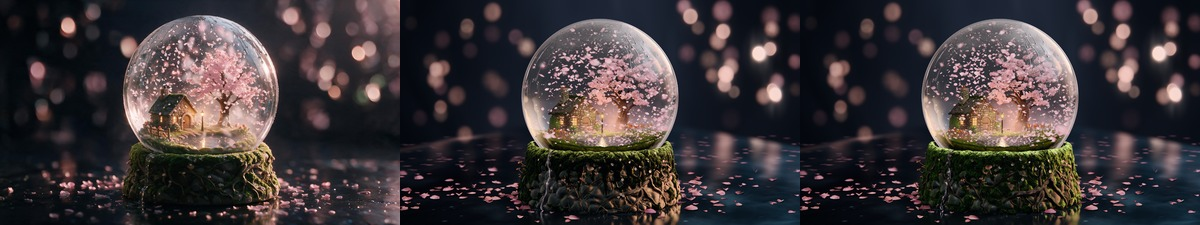
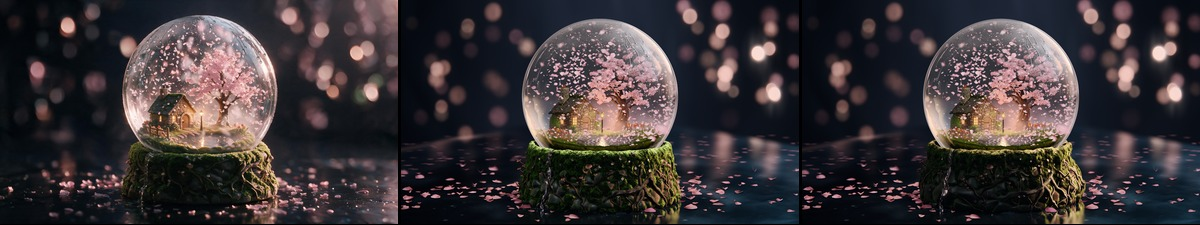
Looks: the third list beside the approved picture and the second list, four frames at 3840 of moss and trickle, the handover

diff --git a/HANDOVER.md b/HANDOVER.md
@@ -1,30 +1,31 @@
-# Handover: spring's base (phase 6, second list)
+# Handover: spring's base (phase 6, third list)
 
 Branch `agent/p6-spring-base`. Files: `src/seasons/spring/base.ts`, `assets-src/base-spring/build.mjs`, `layout.mjs`, `RECIPE.md`. Assets to make again: `npm run make -- base-spring`, then `npm run texpack -- --group spring` (texpack also rewrites `public/assets/spring/village-spring.glb`, which is not this job's; restore it with `git checkout`).
 
 ## What stands
-- Cobbles: cells of about 9.4 by 6.6 mm in `voronoi`, domed by distance to the seed, blurred 0.75 mm. Dark and damp in the shader (`baseStone`, `ROCK.fill` 0.7, `ROCK.lustre` 0.15 for the soft sheen on their upper faces).
-- Moss on the whole flank: three sources in `build.mjs`, the greater of them wins. `patch` (noise at 26 by 4 a turn plus the joints), `seam` (the joints alone, at 0.55), and `shelf` (whole cobbles capped where `lies` is over 0.63). The lip's band is `drape` with the tongues of `DRIPS`. The cover map is mostly moss with stones showing through; lower the three thresholds for more stone.
-- Moss shade: the fill (`ROCK.mossFill` 4.2) has a floor of 0.3 and follows the moss sheet's height, so the shaded moss stays green instead of black. The low sun on the right is tinted green on moss so it does not read as warm.
-- Flecks: the moss's share of the low sun is `(0.8 + 1.8 * liveTuft) * 1.6` (was `0.3 + 7.0 * liveTuft`) and the lit tip is `1.7 + 2.1 * liveTuft + 1.5 * liveFuzz` (was `1.0 + 14.0 * liveTuft`). The dew's lines are the mender's and untouched.
-- Roots: only the twigs of `ROOTS`, thicker (stout ones by 1.3), long curves with little fine wiggle, four wanderers in front; dark grey brown wood with moss on their backs (`baseRootMoss`).
-- Trickle: `TRICKLE_WIDTH` 3.4 to 5.6 mm. The channel under it is dark wet stone and the moss grows ragged into it; the ribbon itself is nearly clear with thin bright edges (`rimline`, added after the edge fade) and streaks.
+- Light on the moss: the low sun's share on moss is tinted `vec3(1.2, 1.5, 0.55)` over the sun's own warm colour, not over the moss's green, and the lit tip (`liveTip`) is a warm olive that grows toward the east (`liveEast`). The lit band at the lip is `liveLip`, the top 1.4 mm only.
+- Shade: `liveReach` in the rock and the factor on the roots' graze take the low sun off every face whose side of the mound looks away from it, so the left and middle flank get the fill alone. The moss's fill falls with height (`mix(0.45, 1.3, smoothstep(27, 40, y))`).
+- Cobbles: cells of about 13 by 9 mm, warped, domed; bare below a ragged line at the left and middle (`bare` in `build.mjs`), moss in the joints (`seam`), on the top and on the lit right.
+- Roots: one thick root taken out, eight thin pale ones on the right (the last eight of `ROOTS`), wood pale tan under the sun with dark gaps.
+- Trickle: a clear film (alpha 0.06 to 0.24), no bright edge lines, fine glints that grow toward the foot.
+- Outline: `swell` in `build.mjs` moves the three meshes outward unevenly (belly, spread at the table, lumps, waist under the lip); `crest` raises tufts at the top edge.
 
 ## What is short of the approved picture
-- The base's outline is a drum; the approved one tapers and bulges. Not in this job.
-- The lip's lit band is still broader and brighter than the approved thin rim (brightest row about 105 117 60 against 70 73 45), and it has no row of bright beads. Lowering it further costs the M3 line: the lip's moss carries much of it, where the approved has its fine detail in the sunlit right side.
-- The flank's p90 and warm bright share are above the approved (77 against 66, 0.14 against 0.12).
-- The roots on the sunlit right are darker than the approved tan ones.
-- The trickle has few glints at its foot.
-- The stones read a little even and olive beside the approved dark wet cobbles.
+- The outline is still nearer a drum than the approved mound. The approved base is lower in the frame (about 280 px tall against 325 px here at 1920) and has two tiers at the top, a ring of moss at the glass and a shelf under it. The height is set by the table and the glass's seat, outside this job's files; inside them the next step is a wider belly and a lower, rounder shoulder in the profile.
+- Green on the lip is now darker and less of it than the approved (green pixels mean 18 25 10 against 28 37 21, share 0.24 against 0.41). The moss band under the lip is still a broad even collar where the approved has it thin and broken.
+- The cobbles read as smooth dark slabs; the approved's are rougher with a thin moss film and small cool glints.
+- The lit right has less saturated green than the approved, whose moss there is bright green with warm tips; the top hundredth is under (241 216 176 against 253 232 204) and the band from the 70th to the 90th percentile is over (134 108 65 against 103 80 53).
+- The left flank's brightest tenth is bluer than the approved (53 49 50 against 49 45 35).
+- In the landed still the trickle has only begun where the approved shake picture shows it whole.
 
 ## How to look
-`npm run still -- --season spring --state rest --camera hero --tier review --format hd --force`, then crop (560,640,1380,1020) beside the approved picture scaled to 1920. The detail line: `npm run measure -- --unit spring --only M3 --force --tier review`.
+`npm run still -- --season spring --state rest --camera hero --tier review --format hd --force`, then crop (560,640,1380,1020) beside the approved picture scaled to 1920. In that crop: lip rows 70 to 130 over x 80 to 740, flank rows 150 to 330 in thirds x 80 to 300, 300 to 520, 520 to 740. The detail line: `npm run measure -- --unit spring --only M3 --force --tier review` (0.8093 on this head; it fell to 0.688 when the front went dark and came back with the eight thin roots and brighter backs on the roots of the right. A try that bought the line with a sharper tuft term, `(0.15 + 5.0 * liveTuft) * 4.8`, read 0.787 but doubled the change from frame to frame of the lit moss at 3840 (p99 82) and looked like yellow grit at one to one; it was taken back to `(0.6 + 2.6 * liveTuft) * 3.4`).
 
 ## At 3840 in motion (film frames 1100 to 1103, final)
-The camera moves the base by 1 to 3 pixels a frame there. Each box laid on its neighbour by whole pixels, luminance; mean change a frame, the 99th percentile of the change, and the share of pixels that change by more than 24 levels. Before is df49a7e6, after is the second list.
-- moss at the lip: before 9.3 to 10.3, p99 58 to 62, 10.3 to 12.1 percent; after 5.5 to 6.4, p99 38 to 44, 3.3 to 4.9 percent
-- lit moss on the right: before 9.8 to 10.4, p99 59 to 62, 10.6 to 12.0 percent; after 8.2 to 8.6, p99 48 to 49, 7.0 to 7.7 percent
-- stones: before 1.4 to 1.8; after 2.1 to 2.5. Roots: before 2.9 to 3.2; after 2.7 to 3.0
-- water: before 3.3 to 3.9, p99 35 to 42; after 4.5 to 5.1, p99 60 to 63 (the bright edges and streaks of the trickle are one to two pixels wide)
-In picture 04 the same leaflets keep their place and their brightness through the four frames. Four frames are not the film: nobody has watched this at 60 a second. If the right flank still crawls there, lower `(0.8 + 1.8 * liveTuft) * 1.6` in `base.ts` again; the M3 line then needs form on the sunlit right (lit roots against dark gaps, as the approved has) to stay over 0.75.
+Each box laid on its neighbour by whole pixels, luminance; mean change a frame, the 99th percentile of the change, the share of pixels that change by more than 24 levels.
+Second list, then third list:
+- moss at the lip: 5.5 to 6.4, p99 38 to 44, 3.3 to 4.9 percent; now 4.6 to 5.5, p99 32 to 37, 2.1 to 3.3 percent
+- lit moss on the right: 8.2 to 8.6, p99 48 to 49, 7.0 to 7.7 percent; now 9.2 to 9.6, p99 60 to 61, 9.5 to 9.9 percent. This is worse than the second list and about where the first base stood: the moss there is lit harder now. The leaflets keep their place and brightness in the four frames (pictures 03 and 07).
+- stones: 2.1 to 2.5; now 0.8 to 0.9. Roots: 2.7 to 3.0; now 2.2 to 2.5, p99 19 to 23
+- water: 4.5 to 5.1, p99 60 to 63; now 2.7 to 3.2, p99 42 to 45. The mark was p99 35 to 42, so this is still up to three levels over.
+Four frames are not the film: nobody has watched this at 60 a second.
